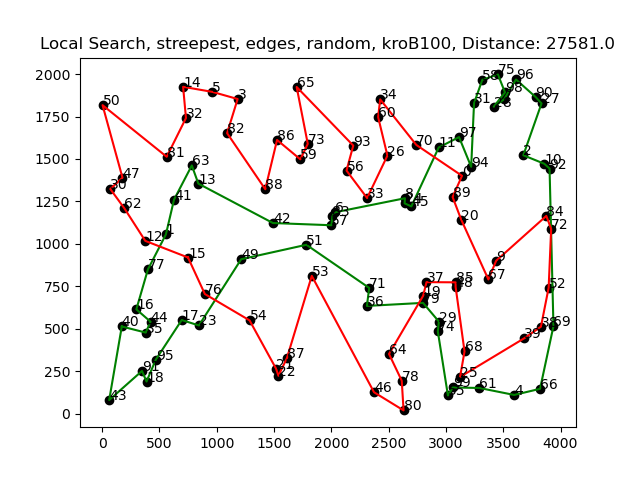
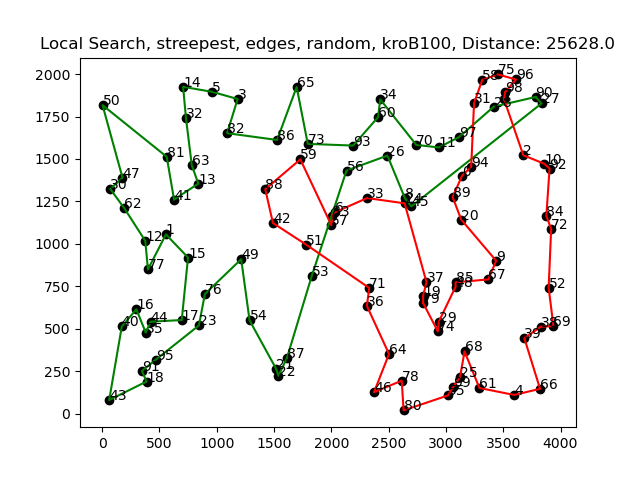
final local search

diff --git a/approaches/local_search_cycle/local_search_heuristic.py b/approaches/local_search_cycle/local_search_heuristic.py
@@ -21,11 +21,14 @@ class LocalSearch(AbstractApproach):
     
     def solve(self, method = 'steepest'):
         if self._first_solution is not None and self._second_solution is not None:
-            return self._find_solution(method)
+            if method == 'steepest':
+                return self._steepest_solution(method)
+            elif method == 'greedy':
+                return self._greedy_solution(method)
         else:
             print(f'Ustaw wartości cykli.')
 
-    def _find_solution(self, method):
+    def _greedy_solution(self, method):
         check_first = True
         check_second = True
         total_best_cost = self.compute_total_cost()
@@ -34,9 +37,8 @@ class LocalSearch(AbstractApproach):
         start = time.time()
 
         while check_first or check_second:
-            if method == 'greedy':
-                #random.seed(42)
-                random.shuffle(order)
+            #random.seed(42)
+            random.shuffle(order)
 
             for key in order:
                 if check_first and key == 'intraclass':
@@ -74,12 +76,51 @@ class LocalSearch(AbstractApproach):
                         check_first = False
                         check_second = False 
         return time.time() - start
+
+
+    def _steepest_solution(self, method):
+        check_first = True
+        check_second = True
+        total_best_cost = self.compute_total_cost()
+        
+        start = time.time()
+
+        while check_first or check_second:
+
+            if check_first:
+                local_results = list()
+                local_results += self._intraclass_computation(best_cost=total_best_cost, checked_cycle=self._first_solution, computation_cycle=self._second_solution, method=method)
+                local_results += self._interclass_computation(best_cost=total_best_cost, method=method)
+                if local_results:
+                    min_replacement = min(local_results, key=operator.attrgetter('score'))
+                    self._first_solution, self._second_solution = min_replacement.first_cycle, min_replacement.second_cycle
+                    total_best_cost = min_replacement.score
+                    check_second = True
+                else:
+                    check_first = False
+            
+            if check_second:
+                local_results = list()
+                local_results += self._intraclass_computation(best_cost=total_best_cost, checked_cycle=self._second_solution, computation_cycle=self._first_solution, method=method)
+                local_results += self._interclass_computation(best_cost=total_best_cost, method=method)
+                if local_results:
+                    min_replacement = min(local_results, key=operator.attrgetter('score'))
+                    self._second_solution, self._first_solution = min_replacement.first_cycle, min_replacement.second_cycle
+                    total_best_cost = min_replacement.score
+                    check_first = True
+                else:
+                    check_second = False   
+        return time.time() - start
         
 
 
     def _intraclass_computation(self, best_cost, checked_cycle, computation_cycle, method):
         result = list()
-        for (node1, node2) in combinations(checked_cycle[:-1], r = 2):
+        nodes_combination = list(combinations(checked_cycle[:-1], r = 2))
+        if method == 'greedy':
+            random.shuffle(nodes_combination)
+
+        for (node1, node2) in nodes_combination:
             if self.neighborhood == 'nodes':
                 temp_solution, temp_cost = self._replace_nodes_inside_cycle(node1, node2, checked_cycle[:], best_cost)
                 if temp_cost < best_cost:   
@@ -98,7 +139,12 @@ class LocalSearch(AbstractApproach):
 
     def _interclass_computation(self, best_cost, method):
         result = list()
-        for (node1, node2) in product(self._first_solution[:-1], self._second_solution[:-1]):
+
+        nodes_product = list(product(self._first_solution[:-1], self._second_solution[:-1]))
+        if method == 'greedy':
+            random.shuffle(nodes_product)
+
+        for (node1, node2) in nodes_product:
             temp_first_solution, temp_second_solution, temp_cost = self._replace_nodes_between_cycles(node1, node2, self._first_solution[:], self._second_solution[:], best_cost)
             if temp_cost < best_cost:   
                 result.append( Replacement(temp_first_solution, temp_second_solution, temp_cost) )

diff --git a/approaches/local_search_cycle/random_local_search.py b/approaches/local_search_cycle/random_local_search.py
@@ -28,27 +28,35 @@ class RandomLocalSearch(AbstractApproach):
         check_first = True
         check_second = True
         total_best_cost = self.compute_total_cost()
-
         start = time.time()
 
         while time.time() - start < computation_time:
-            method = random.choice([0, 1, 2])
+            #method = random.choice([0, 1, 2])
+            method = random.choice([0, 1])
             if method == 0:
-                self._first_solution, self._second_solution = self._replace_nodes_between_cycles(random.choice(self._first_solution), \
-                                                    random.choice(self._second_solution), \
-                                                    self._first_solution, self._second_solution)
+                self._first_solution, self._second_solution = self._replace_nodes_between_cycles(random.choice(self._first_solution[:-1]), \
+                                                    random.choice(self._second_solution[:-1]), \
+                                                    self._first_solution[:], self._second_solution[:])
             if method == 1:
                 cycle = random.choice([0, 1])
                 if cycle == 0:
-                    self._first_solution = self._replace_nodes_inside_cycle(random.choice(self._first_solution), random.choice(self._first_solution),  self._first_solution)
+                    node1 = random.choice(self._first_solution[:-1])
+                    node2 = random.choice(list(set(self._first_solution[:-1]) - set([node1])))
+                    self._first_solution = self._replace_nodes_inside_cycle(node1, node2,  self._first_solution[:])
                 else:
-                    self._second_solution = self._replace_nodes_inside_cycle(random.choice(self._second_solution), random.choice(self._second_solution),  self._second_solution)
+                    node1 = random.choice(self._second_solution[:-1])
+                    node2 = random.choice(list(set(self._second_solution[:-1]) - set([node1])))
+                    self._second_solution = self._replace_nodes_inside_cycle(node1, node2,  self._second_solution[:])
             if method == 2:
                 cycle = random.choice([0, 1])
                 if cycle == 0:
-                    self._first_solution = self._replace_edges_inside_cycle(random.choice(self._first_solution), random.choice(self._first_solution),  self._first_solution)
+                    node1 = random.choice(self._first_solution[:-1])
+                    node2 = random.choice(list(set(self._first_solution[:-1]) - set([node1])))
+                    self._first_solution = self._replace_edges_inside_cycle(node1, node2,  self._first_solution[:])
                 else:
-                    self._second_solution = self._replace_edges_inside_cycle(random.choice(self._second_solution), random.choice(self._second_solution),  self._second_solution)
+                    node1 = random.choice(self._second_solution[:-1])
+                    node2 = random.choice(list(set(self._second_solution[:-1]) - set([node1])))
+                    self._second_solution = self._replace_edges_inside_cycle(node1, node2,  self._second_solution[:])
 
 
     def _replace_nodes_between_cycles(self, first_cycle_node, second_cycle_node, first_cycle, second_cycle):
@@ -67,7 +75,8 @@ class RandomLocalSearch(AbstractApproach):
         first_index = cycle.index(first_node)
         second_index = cycle.index(second_node)
 
-        cycle[first_index], cycle[second_index] = second_node, first_node
+        cycle[first_index] = second_node
+        cycle[second_index] = first_node
         cycle[-1] = cycle[0]
 
         return cycle

diff --git a/local_search.py b/local_search.py
@@ -47,16 +47,17 @@ def main():
         instance = Instance(name = instance_name)
         instance.compute_matrix()
         
-        ##Get greedy solution
-        first_start_node = 92 if instance_name == 'kroA100' else 72 #Najlepsze startowe wierzchołki dla intsancji Greedy (poprzednie zadanie)
+        first_start_node = random.choice(list(instance.point_dict.keys()))
         second_start_node = np.argmax(instance.matrix[first_start_node])
-        greedy_cycle = Greedy(instance, regret = 2)
+
+        ##Get greedy solution
+        #first_start_node = 92 if instance_name == 'kroA100' else 72 #Najlepsze startowe wierzchołki dla intsancji Greedy (poprzednie zadanie)
+        greedy_cycle = Greedy(instance, regret = 0)
         greedy_cycle.solve(first_start_node, second_start_node)
 
-        for _ in range(times_number):
+        for number in range(times_number):
+            print(f'Iteration number: {number+1}')
             #Get random solution
-            first_start_node = random.choice(list(instance.point_dict.keys()))
-            second_start_node = np.argmax(instance.matrix[first_start_node])
             random_cycle = Random(instance, seed = None)
             random_cycle.solve(first_start_node, second_start_node)
             #plot_random(random_cycle)
@@ -123,13 +124,13 @@ def main():
             scores[f'greedy, edges, random, {instance_name}'].append(deepcopy(local_search))
     
     save_string = '\n'
-    worst_time = float('inf')
+    worst_time = float('-inf')
     for key in scores.keys():
         best = min(scores[key], key=lambda el: el.compute_total_cost())
         costs = list( map(lambda el: el.compute_total_cost(), scores[key]) )
         save_string += f'Version: {key}\nMean: {np.mean(costs)}\nMin: {min(costs)}\nMax: {max(costs)}\n\n|TIMES|\n'
         save_string += f'\nMean: {np.mean(times[key])}\nMin: {min(times[key])}\nMax: {max(times[key])}\n\n==========\n\n'
-        if np.mean(times[key]) < worst_time:
+        if np.mean(times[key]) > worst_time:
             worst_time = np.mean(times[key])
         plot_best(best, key)
     
